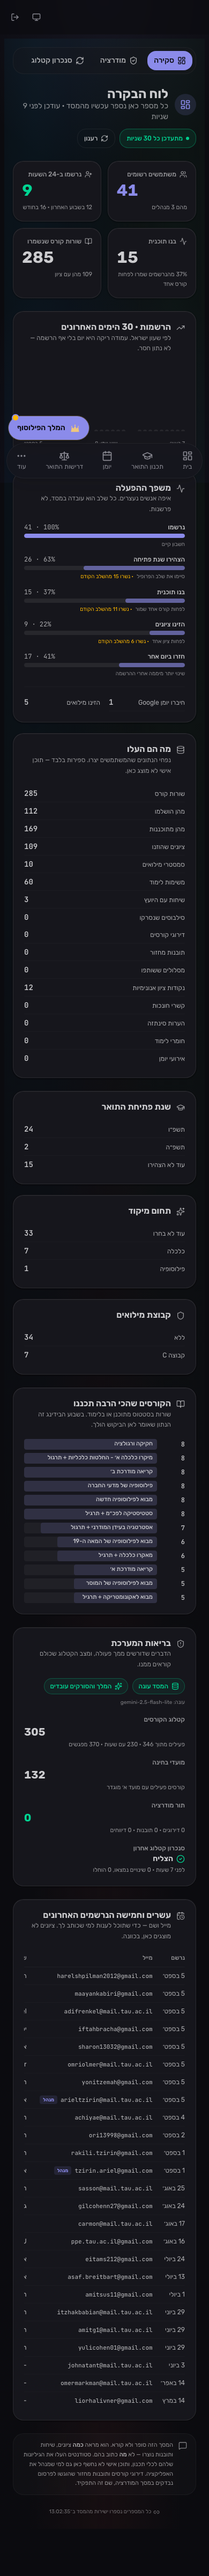
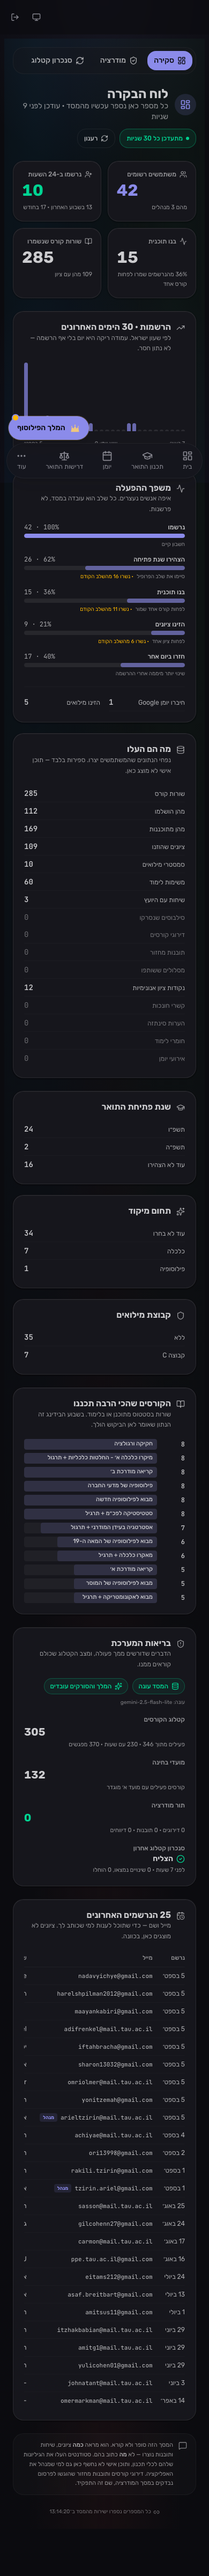
לוח הבקרה — מדריך שימוש, והבהרת שני חלונות זמן שונים
הכרטיס למעלה סופר חלון מתגלגל של 24 שעות; הגרף סופר ימים קלנדריים. בערב
שני המספרים נבדלים בצדק — 10 מול 9 — וזה נראה כמו סתירה למי שלא יודע.
עכשיו כתוב.

`docs/לוח-הבקרה-למנהל.md` מסביר מה כל מספר מודד, מה "חזרו ביום אחר" באמת
אומר (updatedAt, כלומר חזרה לפעולה ולא תנועה), ומה המסך במפורש לא עושה.

השער נבדק חי בארבע שכבות: לא-מחובר → login · משתמש רגיל → dashboard בלי
דליפת תוכן · admin.getOverview → 403 · והקישור בסרגל לא מופיע בכלל.

diff --git a/src/components/admin/admin-overview.tsx b/src/components/admin/admin-overview.tsx
@@ -266,7 +266,10 @@ export function AdminOverview() {
       <Section
         icon={TrendingUp}
         title="הרשמות · 30 הימים האחרונים"
-        subtitle="לפי שעון ישראל. עמודה ריקה היא יום בלי אף הרשמה — לא נתון חסר."
+        // הבהרה שנולדה מהמסך עצמו: הכרטיס למעלה סופר חלון מתגלגל של 24
+        // שעות, והגרף סופר ימים קלנדריים. בערב שני המספרים נבדלים בצדק,
+        // וזה נראה כמו סתירה למי שלא יודע. אז כתוב.
+        subtitle="ימים קלנדריים לפי שעון ישראל — ולכן היום האחרון כאן יכול להיות שונה מ״נרשמו ב-24 השעות״ שלמעלה, שהוא חלון מתגלגל. עמודה ריקה היא יום בלי אף הרשמה, לא נתון חסר."
         className="animate-stagger-3"
       >
         {/* `h-full` על עמודת העטיפה הוא הדבר שגורם לגרף להיות גרף.

diff --git a/docs/לוח-הבקרה-למנהל.md b/docs/לוח-הבקרה-למנהל.md
@@ -102,3 +102,26 @@ npx tsx scripts/grant-admin.ts --list
   מודדים תוצאה, לא תנועה.
 - **לא מאפשר לערוך משתמשים.** זה מסך קריאה. שינוי הרשאה נעשה בפקודה
   מפורשת, בכוונה.
+
+---
+
+## השער — נבדק חי, בארבע שכבות
+
+| מי | מה קורה |
+|---|---|
+| לא מחובר | מופנה ל-`/he/login` |
+| מחובר, לא מנהל | מופנה ל-`/he/dashboard`, **ואין דליפת תוכן** |
+| הנתונים עצמם (`admin.getOverview`) | `403 FORBIDDEN — Admin access required` |
+| סרגל הצד | "לוח הבקרה" פשוט לא מופיע למי שאינו מנהל |
+
+השכבה השלישית היא זו שחשובה: גם אם מישהו יגיע ל-URL, ל-API אין מה למסור
+לו. שתי הראשונות הן נוחות; זו ההגנה.
+
+## מה נבדק, ואיך
+
+שישה צירופים — שולחן עבודה / טאבלט / מובייל, כל אחד בהיר וכהה — נבדקו
+בפרודקשן עם צילום מסך ומדידה: גלישה אופקית, יעדי מגע מתחת ל-24 פיקסל,
+טקסט חתוך (מדלג על מיכלים שגוללים בכוונה), פקדים בלי שם נגיש, ושגיאות
+JS. **שישה מתוך שישה נקיים.**
+
+הצילומים: `video/shots/admin-{desktop,tablet,mobile}-{light,dark}.png`.
